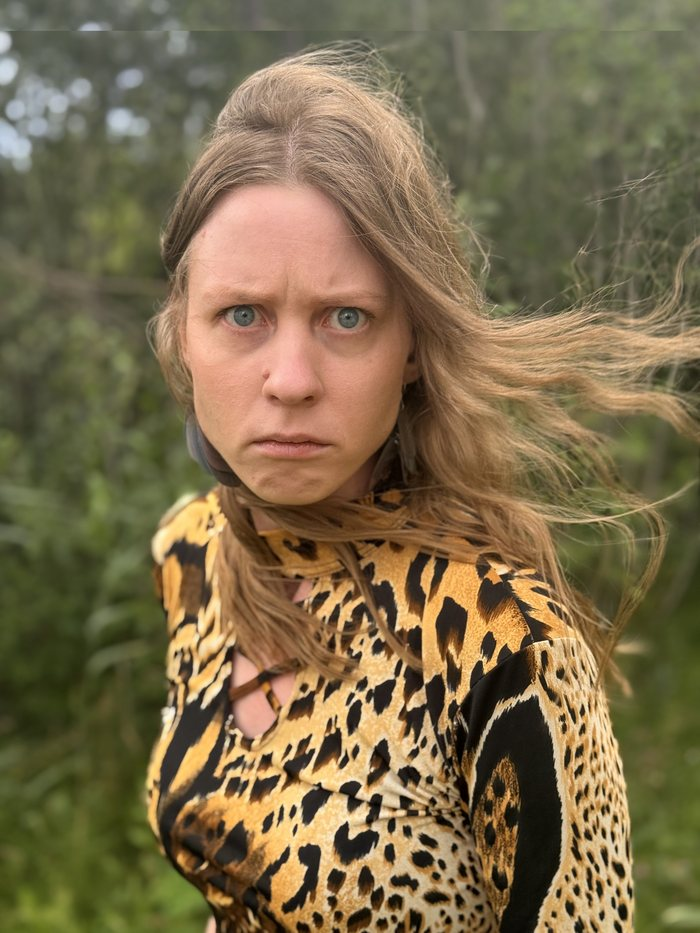
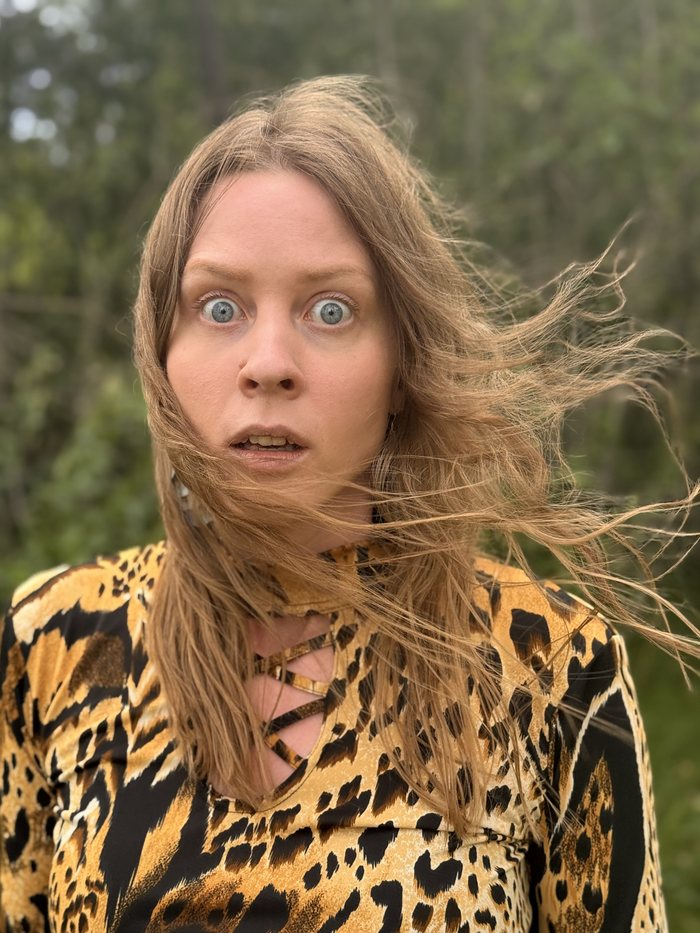
Lägg till ett tredje porträtt för Madeleine, Bastian och Louise
Första hovern eller trycket visar bild 3, nästa visar bild 2, och sen
växlar det vidare varannan gång. Utan JavaScript blir bild 3 kvar som
hover-bild.

diff --git a/index.html b/index.html
@@ -201,12 +201,14 @@
     <p class="section-lead" data-i18n="ens.lead">Vi kan inte lova vilka vi är på scenen. Men det här är vad som brukar hända.</p>
 
     <ul class="ensemble-grid">
-      <li class="member" data-member="Madeleine" style="--member-color:#E8A22B">
+      <li class="member" data-member="Madeleine" data-alt="c" style="--member-color:#E8A22B">
         <figure>
           <div class="photo-stack">
             <img src="assets/portraits/madeleine-1.jpg" alt="Madeleine" class="photo photo-a"
                  width="700" height="933" loading="lazy" decoding="async">
             <img src="assets/portraits/madeleine-2.jpg" alt="" class="photo photo-b" aria-hidden="true"
+                 width="700" height="933" loading="lazy" decoding="async">
+            <img src="assets/portraits/madeleine-3.jpg" alt="" class="photo photo-c" aria-hidden="true"
                  width="700" height="933" loading="lazy" decoding="async">
           </div>
           <figcaption>
@@ -215,12 +217,14 @@
           </figcaption>
         </figure>
       </li>
-      <li class="member" data-member="Bastian" style="--member-color:#5BC4B4">
+      <li class="member" data-member="Bastian" data-alt="c" style="--member-color:#5BC4B4">
         <figure>
           <div class="photo-stack">
             <img src="assets/portraits/bastian-1.jpg" alt="Bastian" class="photo photo-a"
                  width="700" height="933" loading="lazy" decoding="async">
             <img src="assets/portraits/bastian-2.jpg" alt="" class="photo photo-b" aria-hidden="true"
+                 width="700" height="933" loading="lazy" decoding="async">
+            <img src="assets/portraits/bastian-3.jpg" alt="" class="photo photo-c" aria-hidden="true"
                  width="700" height="933" loading="lazy" decoding="async">
           </div>
           <figcaption>
@@ -271,12 +275,14 @@
           </figcaption>
         </figure>
       </li>
-      <li class="member" data-member="Louise" style="--member-color:#BFA0E0">
+      <li class="member" data-member="Louise" data-alt="c" style="--member-color:#BFA0E0">
         <figure>
           <div class="photo-stack">
             <img src="assets/portraits/louise-1.jpg" alt="Louise" class="photo photo-a"
                  width="700" height="933" loading="lazy" decoding="async">
             <img src="assets/portraits/louise-2.jpg" alt="" class="photo photo-b" aria-hidden="true"
+                 width="700" height="933" loading="lazy" decoding="async">
+            <img src="assets/portraits/louise-3.jpg" alt="" class="photo photo-c" aria-hidden="true"
                  width="700" height="933" loading="lazy" decoding="async">
           </div>
           <figcaption>

diff --git a/script.js b/script.js
@@ -444,6 +444,29 @@
     });
   }
 
+  // Porträtten med tre bilder: första hovern visar bild 3, nästa hover eller
+  // klick visar bild 2, och sen växlar det vidare varannan gång.
+  function setupPortraitToggle() {
+    document.querySelectorAll(".member[data-alt]").forEach((member) => {
+      const flip = () => {
+        member.dataset.alt = member.dataset.alt === "c" ? "b" : "c";
+      };
+
+      // Med mus sker bytet när pekaren lämnat kortet, så bilden hinner alltid
+      // tona ut innan den byts — nästa hover visar den andra bilden.
+      member.addEventListener("mouseleave", flip);
+
+      // På touch finns ingen hover att lämna: första trycket visar bilden,
+      // trycken därefter växlar.
+      let revealed = false;
+      member.addEventListener("pointerdown", (event) => {
+        if (event.pointerType === "mouse") return;
+        if (revealed) flip();
+        revealed = true;
+      });
+    });
+  }
+
   function setupGenerator() {
     document.getElementById("roll-btn").addEventListener("click", rollSuggestion);
   }
@@ -472,6 +495,7 @@
     setInterval(updateCountdown, 1000);
     setupLangSwitch();
     setupToTop();
+    setupPortraitToggle();
     setupGenerator();
     setupForm();
     setupEasterEgg();

diff --git a/styles.css b/styles.css
@@ -547,8 +547,15 @@ main section {
   filter: contrast(1.04) saturate(1.02);
   background: var(--member-color);
 }
-.photo-b { opacity: 0; transition: opacity 320ms ease; }
+.photo-b, .photo-c { opacity: 0; transition: opacity 320ms ease; }
 .member:hover .photo-b, .member:focus-within .photo-b { opacity: 1; }
+/* Madeleine, Bastian och Louise har ett tredje porträtt. data-alt styr vilket
+   av dem som visas — script.js växlar mellan "c" och "b" vid varje hover/klick,
+   och utan JS blir det tredje porträttet kvar som hover-bild. */
+.member[data-alt="c"]:hover .photo-b,
+.member[data-alt="c"]:focus-within .photo-b { opacity: 0; }
+.member[data-alt="c"]:hover .photo-c,
+.member[data-alt="c"]:focus-within .photo-c { opacity: 1; }
 
 figcaption { position: relative; min-height: 58px; }
 .member-name, .member-role {
